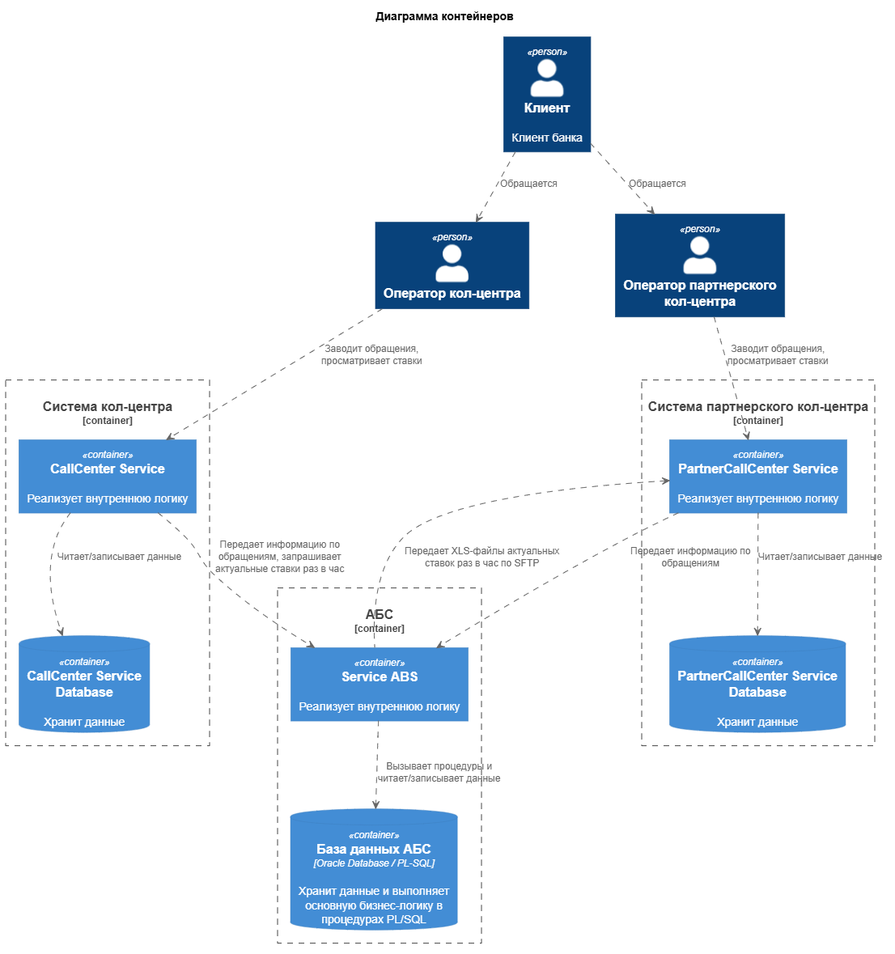
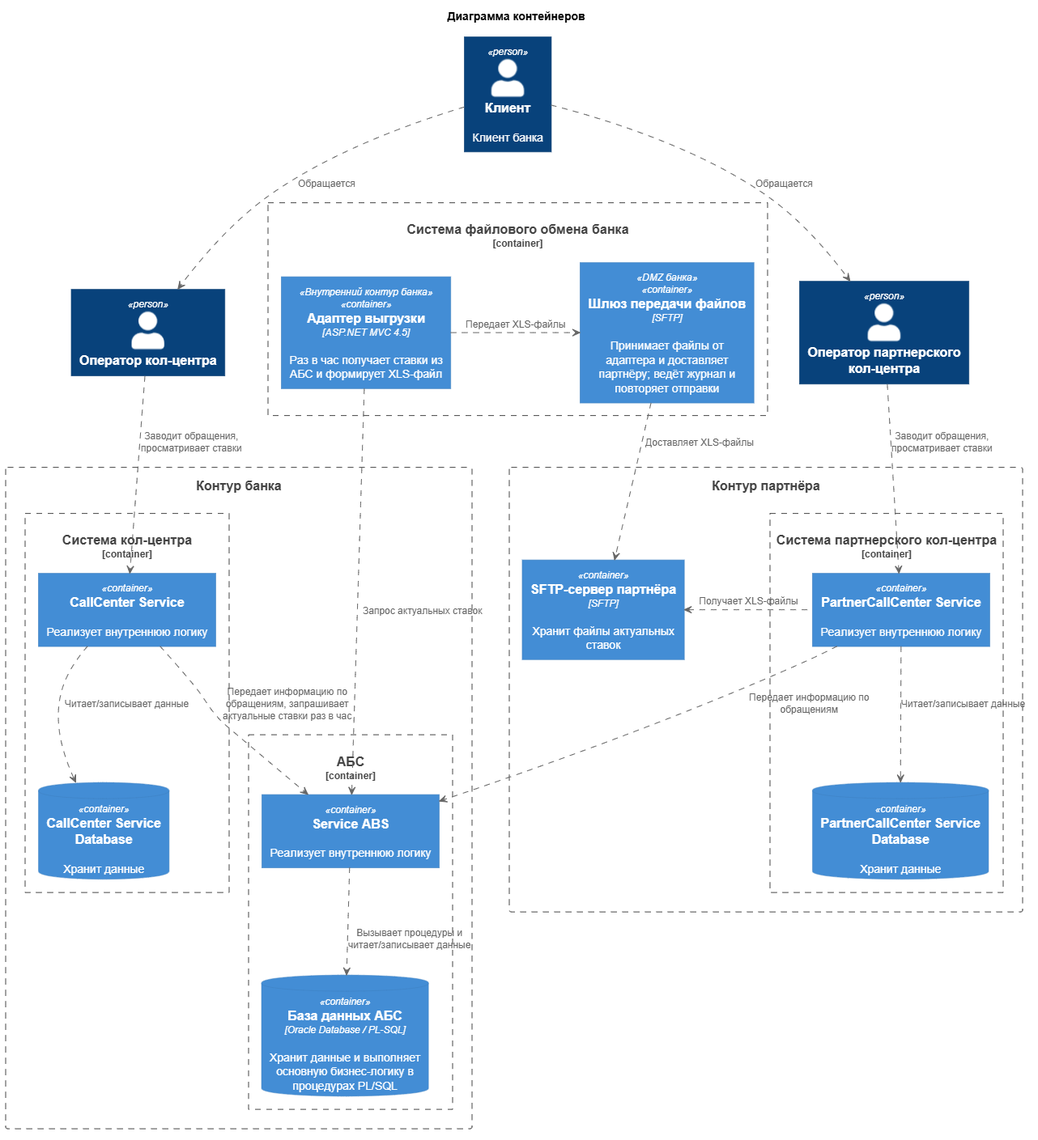
Правки по заданиям 2-4

diff --git a/Task3/ADR.md b/Task3/ADR.md
@@ -9,9 +9,9 @@
 | UC2 | Клиент <br> Сайт <br> Интернет-банк <br> СМС-шлюз | Авторизация | 1. Клиент открывает на сайт банка <br> 2. Клиент нажимает кнопку авторизации <br> 3. Сайт перенаправляет клиента на страницу входа в интернет-банк <br> 4. Клиент вводит данные профиля интернет-банка <br> 5. Интернет-банк запрашивает подтверждение по коду из СМС и отправляет его через СМС-шлюз <br> 6. Клиент вводит код из СМС <br> 7. Интернет-банк отображает главную страницу |
 | UC3 | Клиент <br> Сотрудник фронт-офиса <br> Интернет-банк <br> АБС <br> СМС-шлюз | Подтверждение аккаунта <br> клиента | 1. Клиент обращается к сотруднику фронт-офиса для подтверждения аккаунта <br> 2. Сотрудник фронт-офиса проверяет документы клиента <br> 3. Сотрудник фронт-офиса подтверждает в АБС аккаунт клиента <br> 4. АБС направляет подтверждение в интернет-банк <br> 5. Интернет-банк вносит информацию в БД <br> 6. АБС отправляет уведомление по СМС |
 | UC4 | Клиент <br> Интернет-банк <br> СМС-шлюз | Смена пароля | 1. Клиент с главной страницы переходит в свой профиль <br> 2. Клиент нажимает кнопку смены пароля <br> 3. Клиент вводит новый пароль в соответствующее поле, а также в поле подтверждения пароля <br> 4. Интернет-банк запрашивает подтверждение по коду из СМС и отправляет его через СМС-шлюз <br> 5. Клиент вводит код из СМС <br> 6. Интернет-банк обновляет хэш пароля в БД |
-| UC5 | Клиент <br> Интернет-банк <br> АБС <br> СМС-шлюз | Подача заявки на открытие <br> депозита в Интернет-банке | 1. Клиент переходит с главной страницы интернет-банка в продукты банка <br> 2. Интернет-банк обращается в кэш для получения текущих ставок по депозитам <br> 3. Интернет-банк обращается в БД для получения персонализированных ставок <br> 4. Интернет-банк отображает пользователю список депозитов с актуальными и персонализированными ставками <br> 5. Клиент выбирает депозит из списка, указывает счет и сумму депозита и подает заявку <br> 6. Интернет-банк запрашивает подтверждение по коду из СМС и отправляет его через СМС-шлюз <br> 7. Клиент вводит код из СМС и подтверждает заявку <br> 8. Интернет-банк отправляет заявку в АБС |
-| UC6 | Интернет-банк <br> АБС | Получение актуальных <br> ставок по депозитам | 1. Интернет-банк отправляет запрос на получение актуальных ставок <br> 2. АБС обращается в БД для получения ставок <br> 3. АБС формирует и направляет ответ <br> 4. Интернет-банк обновляет данныые ставок в кэше |
-| UC7 | Сотрудник бэк-офиса <br> АБС <br> Интернет-банк <br> СМС-шлюз | Рассмотрение заявки <br> на открытие депозита | 1. Сотрудник открывает в АБС заявку <br> 2. Сотрудник сверяет данные с текущими ставками, оценивает риски банка <br> 3. Сотрудник подтверждает заявку в АБС <br> 4. АБС направляет подтверждение в Интернет-банк <br> 5. Интернет-банк сохраняет информацию в БД <br> 6. АБС направляет уведомление клиенту по СМС |
+| UC5 | Клиент <br> Интернет-банк (Монолит, Deposite Service, Адаптер АБС) <br> АБС <br> СМС-шлюз | Подача заявки на открытие <br> депозита в Интернет-банке | 1. Клиент переходит с главной страницы интернет-банка в продукты банка <br> 2. Монолит обращается к Deposite Service для получения ставок <br> 3. Deposite Service обращается в кэш для получения текущих ставок по депозитам <br> 4. Deposite Service обращается в БД для получения персонализированных ставок <br> 5. Deposite Service передает данные монолиту <br> 6. Монолит передает пользователю список депозитов с актуальными и персонализированными ставками <br> 7. Клиент выбирает депозит из списка, указывает счет и сумму депозита и подает заявку <br> 8. Монолит запрашивает подтверждение по коду из СМС и отправляет его через СМС-шлюз <br> 9. Клиент вводит код из СМС и подтверждает заявку <br> 10. Монолит передает заявку на обработку Deposite Service <br> 11. Deposite Service сохраняет заявку в БД  <br> 12. Deposite Service публикует сообщение по заявке в Kafka <br> 13. Адаптер АБС читает сообщение и направляет заявку в АБС |
+| UC6 | Интернет-банк (Deposite Service, Адаптер АБС) <br> АБС | Получение актуальных <br> ставок по депозитам | 1. Deposite Service публикует сообщение на получение актуальных ставок в kafka <br> 2. Адаптер АБС читает сообщение и направляет запрос в АБС <br> 3. АБС обращается в БД для получения ставок <br> 4. АБС формирует и направляет ответ <br> 5. Адаптер АБС получает ответ и публикует сообщение в Kafka <br> 6. Deposite Service читает сообщение и обновляет данныые ставок в кэше |
+| UC7 | Сотрудник бэк-офиса <br> АБС <br> Интернет-банк (Deposite Service) <br> СМС-шлюз | Рассмотрение заявки <br> на открытие депозита | 1. Сотрудник открывает в АБС заявку <br> 2. Сотрудник сверяет данные с текущими ставками, оценивает риски банка <br> 3. Сотрудник подтверждает заявку в АБС <br> 4. АБС направляет подтверждение в Deposite Service <br> 5. Deposite Service сохраняет информацию в БД <br> 6. АБС направляет уведомление клиенту по СМС |
 
 ### <a name="_u8xz25hbrgql"></a>**Нефункциональные требования**
 Опишите здесь нефункциональные требования и архитектурно значимые требования.
@@ -23,27 +23,29 @@
 | U2  | Интерфейс сайта должен иметь дополнительную версию для слабовидящих | Т.к. основная клиентская база банка - люди старшего возраста, это поможет им перейти на онлайн взаимодействие с банком |
 | U3  | Сайт и интернет-банк должны содержать раздел со справочной информацией по работе с системой |
 | **R**   | **Надёжность (Reliability)**           |
-| R1  | На этапе MVP время простоя интернет-банка может быть не более одного дня | В дальнейшем требование будет ужесточено |
-| R2  | Время работы 24/7 |
-| R3  | Доступность 99,9% |
+| R1  | Доступность 95% за месяц, включая плановые работы | На этапе MVP время простоя интернет-банка может быть не более одного дня <br> В дальнейшем требование будет ужесточено |
+| R2  | RTO ≤ 1 дня | При отказе основного ЦОД восстановление работоспособности системы должно занимать не более одного дня |
+| R3  | Время работы 24/7 | |
 | R4  | При возникновении ошибок система должна переключатсья на резервный ЦОД | В дальнейшем следует использовать оба с распределением нагрузки |
 | R5  | При использовании функционала кэширования, срок хранения кэша должен быть 30 мин | Следует уточнить с командой АБС и менеджерами бэк-офиса |
+| R6  | Для заявок, по которым клиенту был возвращен результат об успешном приеме, RPO = 0 <br> Для данных по ставкам RPO ≤ 30 мин | Необходимо уточнить RPO для ставок | 
 | **P**   | **Производительность (Performance)**   |
-| P1  | Время отклика ≤ 200 мс             | Команда АБС просит избежать прямой работы с API АБС. На этапе MVP можно кэшировать данные по ставкам в системе, но сообщать пользователю об уточнении ставки на этапе оформления заявки |
-| P2  | На этапе MVP система должна поддерживать 250 одновременных пользователей |        
+| P1 | p95 ≤ 200 мс <br> p99 ≤ 500 мс | Команда АБС просит избежать прямой работы с API АБС. На этапе MVP можно кэшировать данные по ставкам в системе, но сообщать пользователю об уточнении ставки на этапе оформления заявки |
+| P2 | RPS = 100 | На этапе MVP система должна поддерживать 250 одновременных пользователей <br> Требование будет доуточнено после прогнозирования сценариев использования | |     
 | **S**   | **Поддерживаемость (Supportability)**  |
-| S1  | Должна быть поддержка интеграционного тестирования |
-| S2  | Должны быть настроены системы мониторинга и логирования |
-| S3  | Должно быть настроено автоматическое тестирование при развертывании |
-| S4  | Должно быть настроено автоматические уведомления о сбоях и проблемах в системе |
-| S5  | Развертывание нового функционала должно быть реализовано канареечным способом |
+| S1  | Должна быть поддержка интеграционного тестирования | |
+| S2  | Должны быть настроены системы мониторинга и логирования, сбор RPS, p95/p99 | |
+| S3  | Должно быть настроено автоматическое тестирование при развертывании | |
+| S4  | Должно быть настроено автоматические уведомления о сбоях и проблемах в системе | |
+| S5  | Развертывание нового функционала должно быть реализовано канареечным способом | |
 | **+R**  | **+ Ограничения (Restrictions)**       |
-| R1  | Данные с сайта и интернет-банка должны передаваться в зашифрованном виде |
+| R1  | Взаимодействие браузера пользователя с сайтом и интернет-банком - только HTTPS <br> Поддержка TLS 1.3 <br> Совместимость с TLS 1.2 <br> Поддерживаются HTTP/1.1 и HTTP/2 | Данные с сайта и интернет-банка должны передаваться в зашифрованном виде |
 | R2  | Пароли пользователей должны храниться в виде хэша |
 | R3  | Желательно использование технологий из числа имеющихся компетенций команды разработки |
 | R4  | Новые технологии должны быть совместимы с имеющимся стеком |
 | R5  | При внедрении Kafka доработка системы должна осуществляться по паттерну strangler fig |
 | R6  | Система должна использовать кэш; кэш должен поддерживать совместную работу экземпляров приложения | 
+| R7  | При внедрении Kafka доработка системы должна осуществляться по паттерну strangler fig | |
 
 ### <a name="_qmphm5d6rvi3"></a>**Решение**
 
@@ -69,9 +71,9 @@
 
 1. Т.к. в данный момент Интернет-банк представляет из себя монолитное решение, а в дальнейшем требуется развитие и масштабирование системы на большое число людей, было принято решение начать развитие системы с использованием паттерна Strangler Fig.
 
-2. На этапе MVP будет выделен один сервис Deposite Service для управления депозитами клиентов. В дальнейшем планируется постепенное выделение сревисов из монолита и переход на микросервисную архитектуру.
+2. На этапе MVP будут добавлены: <br> - Deposite Service для управления депозитами клиентов <br> - Брокер сообщений Kafka <br> - Адаптер АБС для взаимодействий с АБС <br> В дальнейшем планируется постепенное выделение сревисов из монолита и переход на микросервисную архитектуру.
 
-3. Ввиду опасений IT команды, отвечающей за поддержание АБС, по поводу перегруженности системы было решено использовать функционал кэширования данных для избегания частого обращения в систему для получения актуальных ставок по депозитам. В качестве решения подходит Redis, т.к. он совместим со стеком имеющегося монолита, является опенсорсным решением
+3. Ввиду опасений IT команды, отвечающей за поддержание АБС, по поводу перегруженности системы было решено использовать функционал кэширования данных для избегания частого обращения в систему для получения актуальных ставок по депозитам. В качестве решения подходит Redis, т.к. он совместим со стеком имеющегося монолита, является опенсорсным решением <br> Также Адаптер АБС будет использоваться для регулирования частоты запросов к АБС, а Kafka позволит реализовать асинхронность запросов Deposite Service
 
 4. Также следует перенести хранение актуальных ставок в АБС, т.к. это позволит всем заинтересованным лицам иметь общий доступ к данным из одного места, а также позволит передавать данные в Интернет-банк.
 
@@ -91,8 +93,8 @@
 Хорошо - использование уже имеющегося стека. Плохо - хуже специализированного кэша<br><br>
 3.3. Другие специализированные решения<br>
 Не столь популярны или имеют меньший функционал. Также требуют внедрения новых технологий в стек<br><br>
-4. Асинхронное взаимодействие<br>
-На этапе MVP нет большой необходимости во внедрении Kafka или аналогов, т.к. это потребует внедрения новой технологии, а при наличии всего одного микросервиса затраты на внедрение пока что не целесообразны
+4. Синхронное взаимодействие<br>
+Стоит избегать для обеспечения контроля частоты запросов к АБС по просьбе команды АБС
 
 **Недостатки, ограничения, риски**
 

diff --git a/Task4/ADR.md b/Task4/ADR.md
@@ -6,8 +6,8 @@
 
 |**№**|**Действующие лица или системы**|**Use Case**|**Описание**|
 | :-: | :- | :- | :- |
-| UC1 | Система кол-центра банка <br> АБС | Получение актуальных ставок | 1. Система кол-центра отправляет запрос на получение ставок <br> 2. АБС принимает запрос, формирует и направляет ответ <br> 3. Система кол-центра принимает ответ АБС и сохраняет в БД или кэш |
-| UC2 | Система партнерского кол-центра банка <br> АБС | Получение актуальных ставок | 1. Наступает момент отправки данных в партнерскую систему <br> 2. АБС формирует из имеющихся данных XLS-файл с актуальными ставками <br> 3. АБС направляет сформированные файлы в партнерскую систему по SFTP-протоколу <br> 4. Партнерская система сохраняет данные в БД или кэш |
+| UC1 | Система кол-центра банка <br> АБС (Service ABS) | Получение актуальных ставок | 1. Система кол-центра отправляет запрос на получение ставок <br> 2. Service ABS принимает запрос, формирует и направляет ответ <br> 3. Система кол-центра принимает ответ АБС и сохраняет в БД или кэш |
+| UC2 | Система партнерского кол-центра банка <br> АБС <br> Система файлового обмена банка <br> SFTP-сервер партнера | Получение актуальных ставок | 1. Наступает момент отправки данных в партнерскую систему <br> 2. Адаптер выгрузки направляет запрос на получение ставок <br> 3. Service ABS принимает запрос, формирует и направляет ответ <br> 4. Адаптер выгрузки формирует файл и направляет его через Шлюз передачи файлов <br> 5. Шлюз передачи файлов доставляет файлы на SFTP-сервер партнера <br> 6. PartnerCallCenter Service получает файлы от SFTP-сервера <br> 7. PartnerCallCenter Service сохраняет данные в БД или кэш |
 | UC3 | Сотрудник кол-центра банка <br> Система кол-центра банка | Просмотр актуальных ставок | 1. Сотрудник в интерфейсе системы открывает страницу с текущими ставками <br> 2. Система загружает данные из кэша или БД и отображает на странице вместе с временем актуальности данных |
 | UC4 | Сотрудник партнерского кол-центра <br> Система партнерского кол-центра | Просмотр актуальных ставок | 1. Сотрудник в интерфейсе системы открывает страницу с текущими ставками <br> 2. Система загружает данные из кэша или БД и отображает на странице вместе с временем актуальности данных |
 
@@ -16,13 +16,14 @@
 
 |**№**|**Требование**|
 | :-: | :- |
-| 1 | АБС должна направлять данные по ставкам в партнерский кол-центр каждый час |
+| 1 | Система банка должна направлять данные по ставкам в партнерский кол-центр каждый час |
 | 2 | При использовании кэша время хранения данных должно быть бессрочным на случай сбоя в АБС |
 | 3 | В кэше или БД рядом с данными по ставкам должны храниться временные метки актуальности данных |
 | 4 | Вместе с данными по ставкам сотрудникам должно отображаться время актуальности данных |
 | 5 | Период формирования и отправки XLS-файлов должен составлять 1 час |
-| 6 | XLS-файлы передаются по SMTP-протоколу |
+| 6 | XLS-файлы передаются по SFTP-протоколу |
 | 7 | Кол-центр банка должен запрашивать новые данные каждый час |
+| 8 | Передача файлов по SFTP должна быть изолирована от остального контура банка |
 
 ### <a name="_qmphm5d6rvi3"></a>**Решение**
 
@@ -48,7 +49,9 @@
 
 Т.к. АБС и система кол-центра банка находятся в одном контуре самым простым вариантом передачи актуальных ставок является вариант запроса из системы кол-центра в АБС по http. Но из-за опасений команды АБС по нагрузке системы в прошлом следует настроить периодический опрос АБС. Также ввиду возможного изменения ставок в период между запросами следует выводить время актуальности данных для сотрудников.
 
-Из-за нахождения системы партнерского кол-центра и АБС в разных контурах отсутствует возможность прямого обращения, но система партнера готова рпинимать XLS-файлы по SMTP-соединению. Аналогично внутренней системе данные будут формироваться и передаваться раз в час. Так как уже в плане разработка решения по задаче [Реализация функционала подачи заявок на открытие депозитов и накопительных счетов](../Task3/ADR.md) данные уже будут храниться в АБС и можно будет запускать формирование файлов на их основе.
+Из-за нахождения системы партнерского кол-центра и АБС в разных контурах отсутствует возможность прямого обращения, но система партнера готова рпинимать XLS-файлы по SFTP-соединению. Аналогично внутренней системе данные будут формироваться и передаваться раз в час. Так как уже в плане разработка решения по задаче [Реализация функционала подачи заявок на открытие депозитов и накопительных счетов](../Task3/ADR.md) данные уже будут храниться в АБС и можно будет запускать формирование файлов на их основе.
+
+Будет выделен адаптер выгрузки вне АБС в контуре банка и шлюз передачи файлов для партнера в DMZ
 
 ### <a name="_bjrr7veeh80c"></a>**Альтернативы**
 
@@ -62,12 +65,10 @@
 
 **Отправлять данные в кол-центр банка XLS-файлом**
 
-Следует проконсультироваться с разработчиками
+Неавтоматизированное решение
 
 **Недостатки, ограничения, риски**
 
 1. Рост нагрузки на АБС
 2. Актуальность данных обновляется раз в час
-3. Может потребоваться доработка ядра АБС
-4. Передача данных по SMTP сама по себе не имеет встроенных механизмов защиты
-5. При ошибке в передаче актуальность данных устаревает
+3. При ошибке в передаче актуальность данных устаревает

diff --git a/README.md b/README.md
@@ -53,22 +53,23 @@
 | U2  | Интерфейс сайта должен иметь дополнительную версию для слабовидящих | Т.к. основная клиентская база банка - люди старшего возраста, это поможет им перейти на онлайн взаимодействие с банком |
 | U3  | Сайт и интернет-банк должны содержать раздел со справочной информацией по работе с системой | |
 | **R**   | **Надёжность (Reliability)**           |              |
-| R1  | На этапе MVP время простоя интернет-банка может быть не более одного дня | В дальнейшем требование будет ужесточено |
-| R2  | Время работы 24/7 | |
-| R3  | Доступность 99,9% | |
+| R1  | Доступность 95% за месяц, включая плановые работы | На этапе MVP время простоя интернет-банка может быть не более одного дня <br> В дальнейшем требование будет ужесточено |
+| R2  | RTO ≤ 1 дня | При отказе основного ЦОД восстановление работоспособности системы должно занимать не более одного дня |
+| R3  | Время работы 24/7 | |
 | R4  | При возникновении ошибок система должна переключатсья на резервный ЦОД | В дальнейшем следует использовать оба с распределением нагрузки |
 | R5  | При использовании функционала кэширования, срок хранения кэша должен быть 30 мин | Следует уточнить с командой АБС и менеджерами бэк-офиса |
+| R6  | Для заявок, по которым клиенту был возвращен результат об успешном приеме, RPO = 0 <br> Для данных по ставкам RPO ≤ 30 мин | Необходимо уточнить RPO для ставок | 
 | **P**   | **Производительность (Performance)**   |              |
-| P1  | Время отклика ≤ 200 мс             | Команда АБС просит избежать прямой работы с API АБС. На этапе MVP можно кэшировать данные по ставкам в системе, но сообщать пользователю об уточнении ставки на этапе оформления заявки |
-| P2  | На этапе MVP система должна поддерживать 250 одновременных пользователей | |                       |              |
+| P1 | p95 ≤ 200 мс <br> p99 ≤ 500 мс | Команда АБС просит избежать прямой работы с API АБС. На этапе MVP можно кэшировать данные по ставкам в системе, но сообщать пользователю об уточнении ставки на этапе оформления заявки |
+| P2 | RPS = 100 | На этапе MVP система должна поддерживать 250 одновременных пользователей <br> Требование будет доуточнено после прогнозирования сценариев использования | |
 | **S**   | **Поддерживаемость (Supportability)**  |              |
 | S1  | Должна быть поддержка интеграционного тестирования | |
-| S2  | Должны быть настроены системы мониторинга и логирования | |
+| S2  | Должны быть настроены системы мониторинга и логирования, сбор RPS, p95/p99 | |
 | S3  | Должно быть настроено автоматическое тестирование при развертывании | |
 | S4  | Должно быть настроено автоматические уведомления о сбоях и проблемах в системе | |
 | S5  | Развертывание нового функционала должно быть реализовано канареечным способом | |
 | **+R**  | **+ Ограничения (Restrictions)**       |              |
-| R1  | Данные с сайта и интернет-банка должны передаваться в зашифрованном виде | |
+| R1  | Взаимодействие браузера пользователя с сайтом и интернет-банком - только HTTPS <br> Поддержка TLS 1.3 <br> Совместимость с TLS 1.2 <br> Поддерживаются HTTP/1.1 и HTTP/2 | Данные с сайта и интернет-банка должны передаваться в зашифрованном виде |
 | R2  | Пароли пользователей должны храниться в виде хэша | |
 | R3  | Желательно использование технологий из числа имеющихся компетенций команды разработки | |
 | R4  | Новые технологии должны быть совместимы с имеющимся стеком | |

diff --git a/Task2/FURPS+.md b/Task2/FURPS+.md
@@ -22,22 +22,23 @@
 | U2  | Интерфейс сайта должен иметь дополнительную версию для слабовидящих | Т.к. основная клиентская база банка - люди старшего возраста, это поможет им перейти на онлайн взаимодействие с банком |
 | U3  | Сайт и интернет-банк должны содержать раздел со справочной информацией по работе с системой | |
 | **R**   | **Надёжность (Reliability)**           |              |
-| R1  | На этапе MVP время простоя интернет-банка может быть не более одного дня | В дальнейшем требование будет ужесточено |
-| R2  | Время работы 24/7 | |
-| R3  | Доступность 99,9% | |
+| R1  | Доступность 95% за месяц, включая плановые работы | На этапе MVP время простоя интернет-банка может быть не более одного дня <br> В дальнейшем требование будет ужесточено |
+| R2  | RTO ≤ 1 дня | При отказе основного ЦОД восстановление работоспособности системы должно занимать не более одного дня |
+| R3  | Время работы 24/7 | |
 | R4  | При возникновении ошибок система должна переключатсья на резервный ЦОД | В дальнейшем следует использовать оба с распределением нагрузки |
 | R5  | При использовании функционала кэширования, срок хранения кэша должен быть 30 мин | Следует уточнить с командой АБС и менеджерами бэк-офиса |
+| R6  | Для заявок, по которым клиенту был возвращен результат об успешном приеме, RPO = 0 <br> Для данных по ставкам RPO ≤ 30 мин | Необходимо уточнить RPO для ставок | 
 | **P**   | **Производительность (Performance)**   |              |
-| P1  | Время отклика ≤ 200 мс             | Команда АБС просит избежать прямой работы с API АБС. На этапе MVP можно кэшировать данные по ставкам в системе, но сообщать пользователю об уточнении ставки на этапе оформления заявки |
-| P2  | На этапе MVP система должна поддерживать 250 одновременных пользователей | |                       |              |
+| P1 | p95 ≤ 200 мс <br> p99 ≤ 500 мс | Команда АБС просит избежать прямой работы с API АБС. На этапе MVP можно кэшировать данные по ставкам в системе, но сообщать пользователю об уточнении ставки на этапе оформления заявки |
+| P2 | RPS = 100 | На этапе MVP система должна поддерживать 250 одновременных пользователей <br> Требование будет доуточнено после прогнозирования сценариев использования | |
 | **S**   | **Поддерживаемость (Supportability)**  |              |
 | S1  | Должна быть поддержка интеграционного тестирования | |
-| S2  | Должны быть настроены системы мониторинга и логирования | |
+| S2  | Должны быть настроены системы мониторинга и логирования, сбор RPS, p95/p99 | |
 | S3  | Должно быть настроено автоматическое тестирование при развертывании | |
 | S4  | Должно быть настроено автоматические уведомления о сбоях и проблемах в системе | |
 | S5  | Развертывание нового функционала должно быть реализовано канареечным способом | |
 | **+R**  | **+ Ограничения (Restrictions)**       |              |
-| R1  | Данные с сайта и интернет-банка должны передаваться в зашифрованном виде | |
+| R1  | Взаимодействие браузера пользователя с сайтом и интернет-банком - только HTTPS <br> Поддержка TLS 1.3 <br> Совместимость с TLS 1.2 <br> Поддерживаются HTTP/1.1 и HTTP/2 | Данные с сайта и интернет-банка должны передаваться в зашифрованном виде |
 | R2  | Пароли пользователей должны храниться в виде хэша | |
 | R3  | Желательно использование технологий из числа имеющихся компетенций команды разработки | |
 | R4  | Новые технологии должны быть совместимы с имеющимся стеком | |
